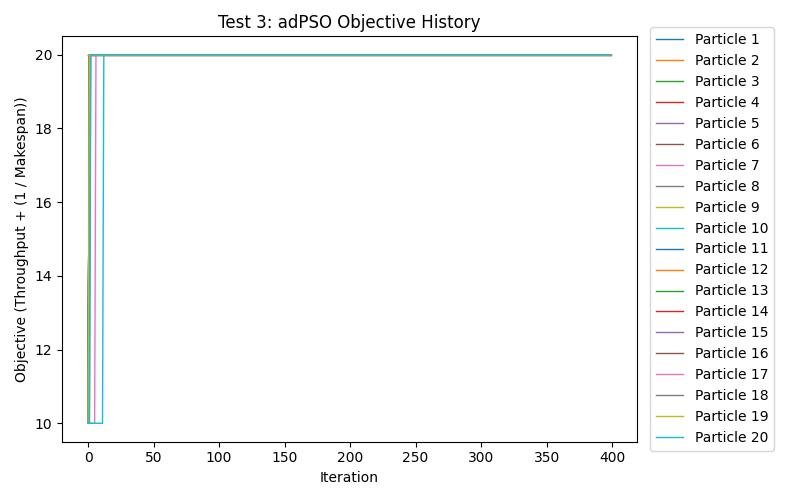
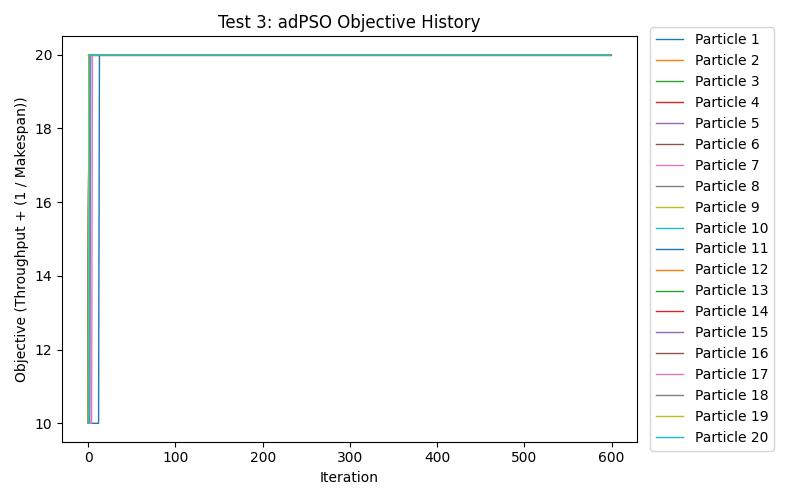
add test 9 and increase iterations to display convergence comparison across tests

diff --git a/psoscheduler/src/main/java/syslab/cloudcomputing/schedule/Scheduler.java b/psoscheduler/src/main/java/syslab/cloudcomputing/schedule/Scheduler.java
@@ -108,7 +108,6 @@ public class Scheduler {
         int vmMipsLow = 50;
 
         int highVmId = Utilities.getRandomInteger(0, nVms - 1);
-        System.out.println(highVmId);
 
         ArrayList<VirtualMachine> vms = new ArrayList<VirtualMachine>();
 
@@ -203,7 +202,7 @@ public class Scheduler {
         return workload;
     }
 
-     public static DataCenter test8_DataCenter() {
+    public static DataCenter test8_DataCenter() {
         return Scheduler.test4_DataCenter();
     }
 
@@ -220,5 +219,25 @@ public class Scheduler {
         
         Workload workload = new Workload(tasks);
         return workload;
+    }
+
+    public static DataCenter test9_DataCenter() {
+        int nVms = 36;
+        int vmMipsInterval = 20;
+        int mips = 50;
+
+        ArrayList<VirtualMachine> vms = new ArrayList<VirtualMachine>();
+
+        for (int i = 0; i < nVms; i++) {
+            vms.add(new VirtualMachine(mips));
+            mips += vmMipsInterval;
+        }
+
+        DataCenter dataCenter = new DataCenter(vms);
+        return dataCenter;
+    }
+
+    public static Workload test9_Workload() {
+        return Scheduler.test8_Workload();
     }
 }

diff --git a/psoscheduler/src/main/java/syslab/cloudcomputing/pso/PSOSwarm.java b/psoscheduler/src/main/java/syslab/cloudcomputing/pso/PSOSwarm.java
@@ -13,7 +13,7 @@ public class PSOSwarm {
   private final double w1 = 0.9;
   private final double w2 = 0.4;
 
-  private final int maxIterations = 400;
+  private final int maxIterations = 600;
   private static final int nSwarms = 5;
   private static final int nParticles = 20;
 

diff --git a/psoscheduler/src/main/java/syslab/cloudcomputing/utils/Utilities.java b/psoscheduler/src/main/java/syslab/cloudcomputing/utils/Utilities.java
@@ -46,7 +46,7 @@ public class Utilities {
 		try {
 			Files.write(_path, output.getBytes());
 		} catch (IOException ex) {
-			System.out.println(ex.getMessage());
+			ex.printStackTrace(System.err);
 		}
 	}
 }
